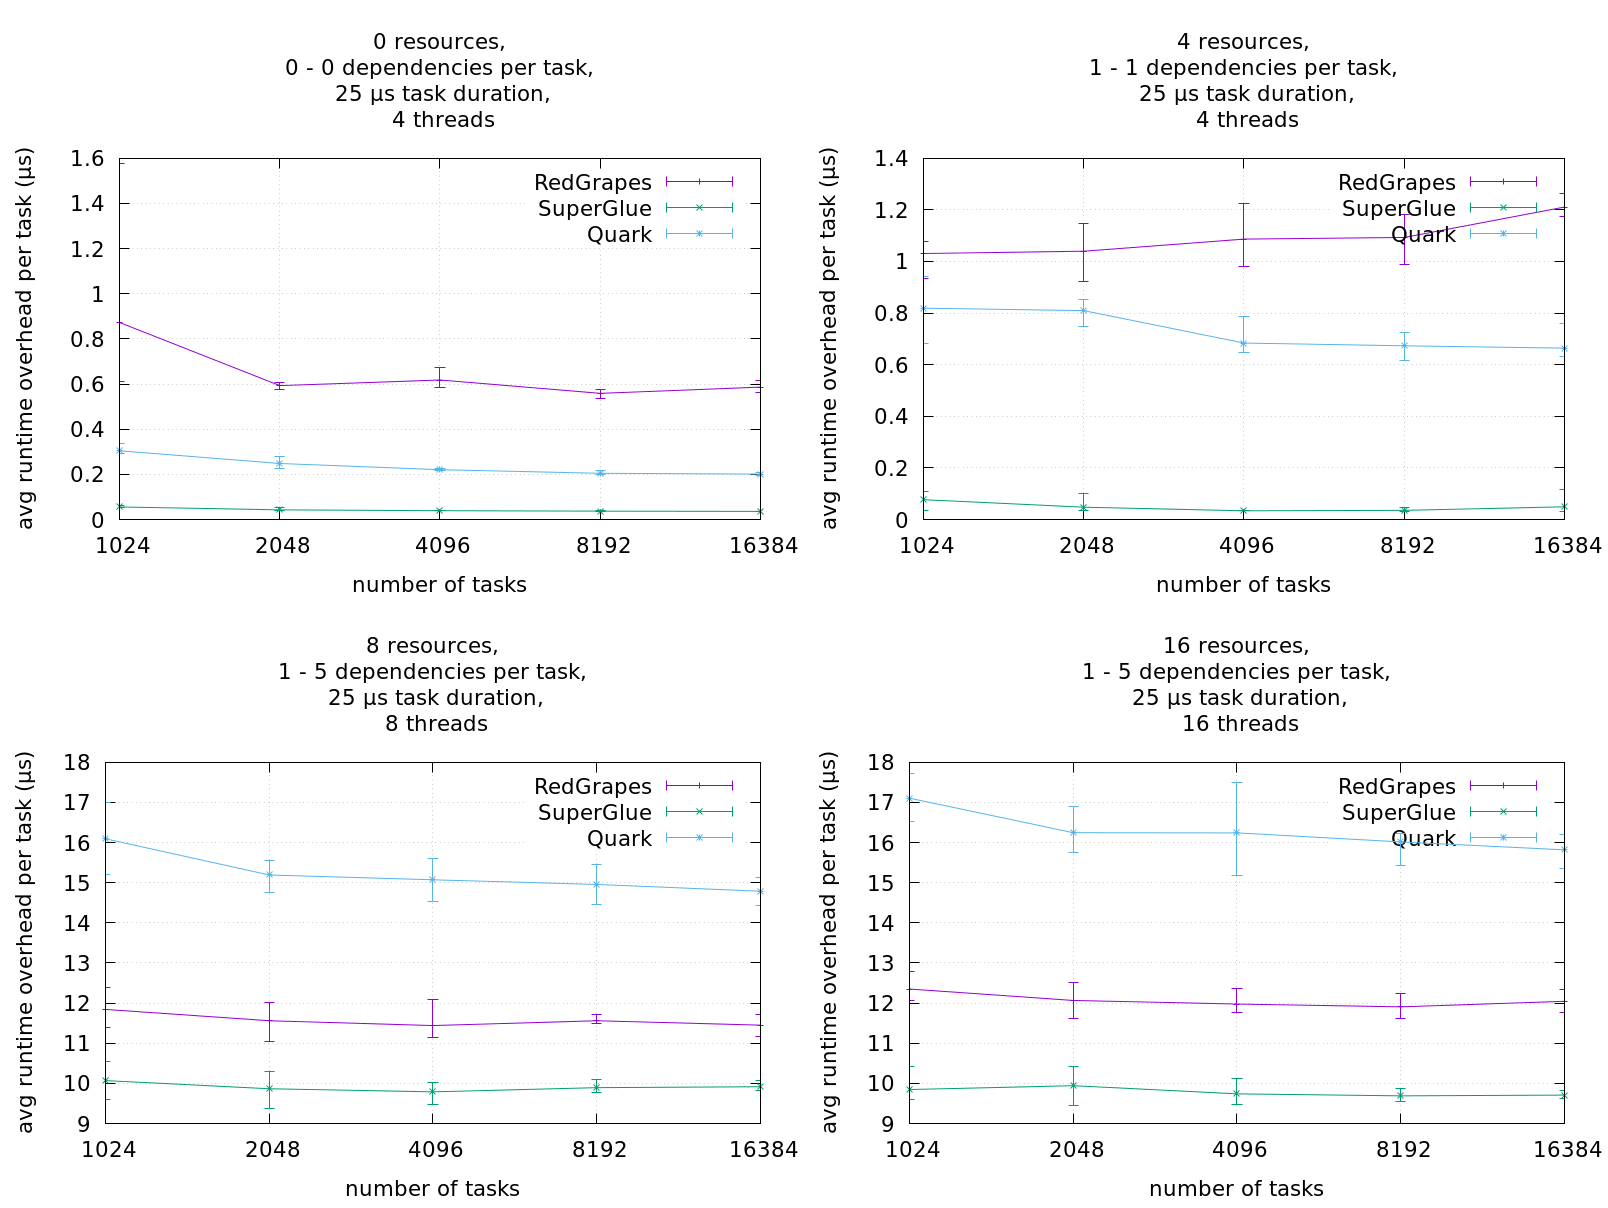
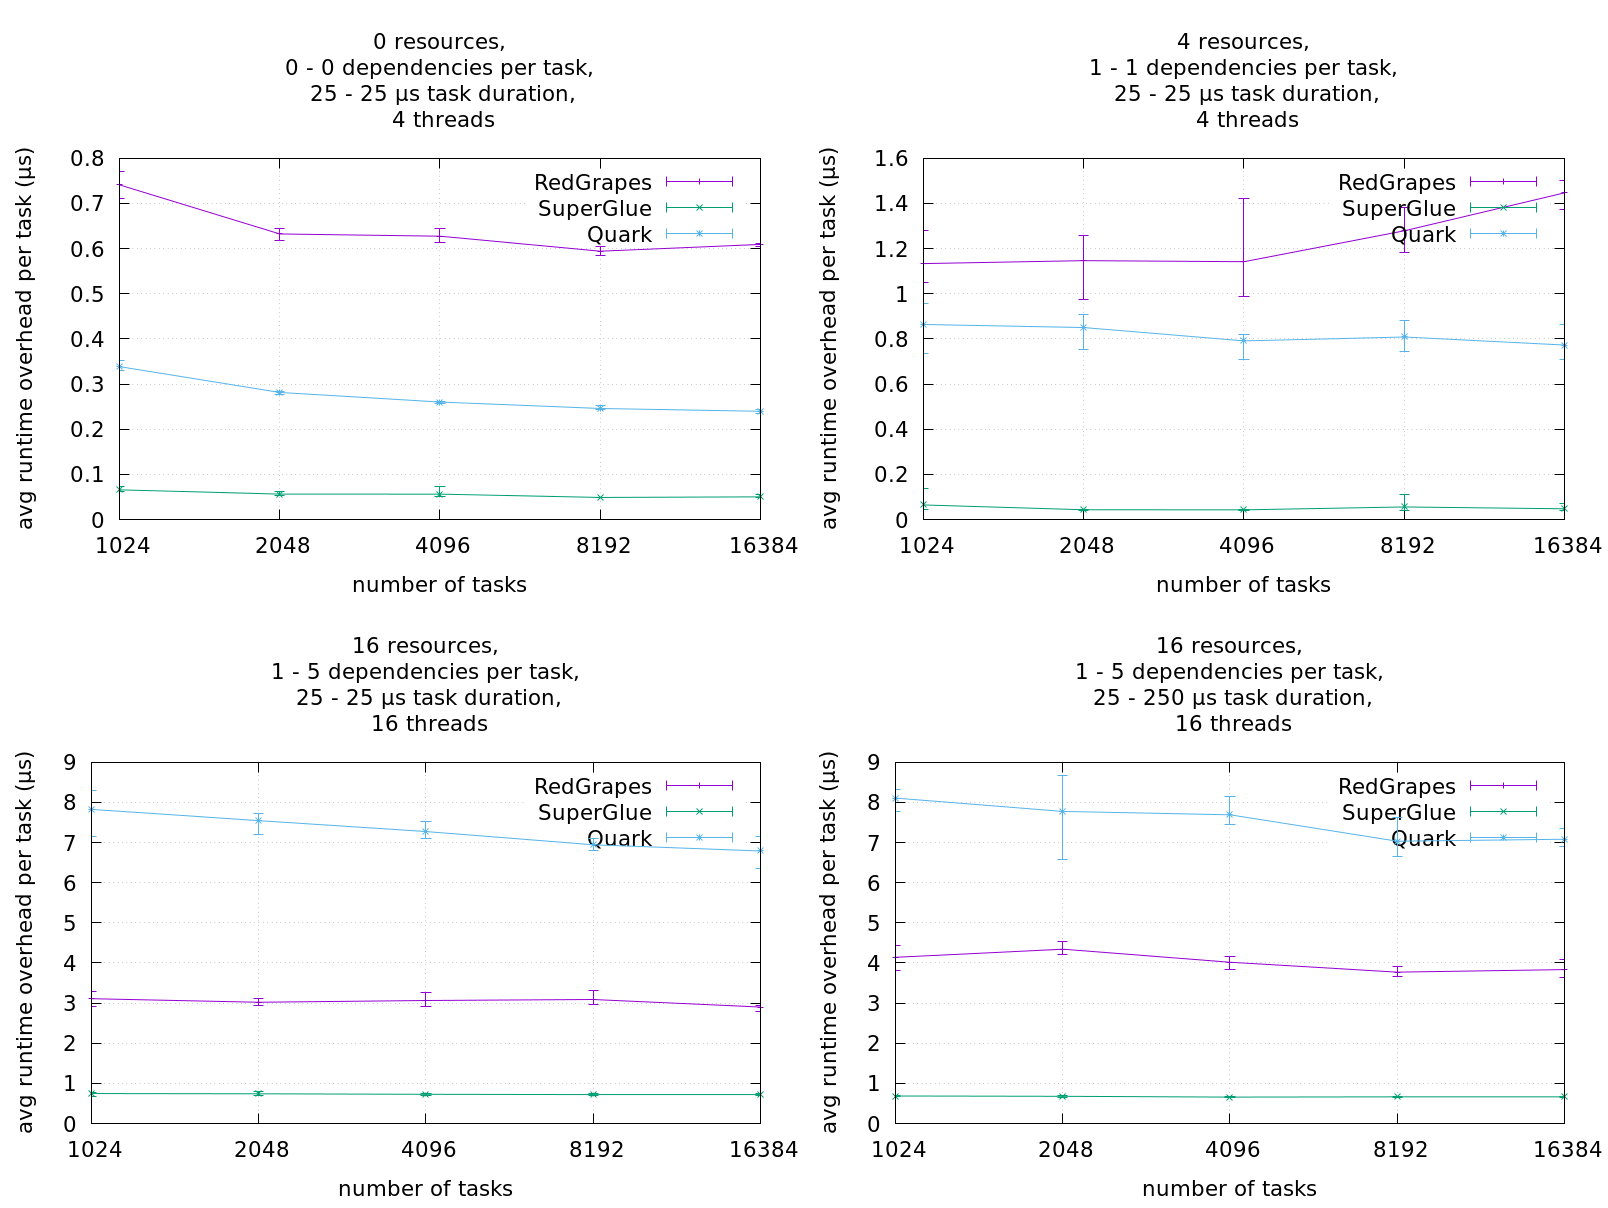
update plots

diff --git a/README.md b/README.md
@@ -30,20 +30,20 @@ In this case, all tasks are independent, i.e. they do not use any resources, so 
 We measure the total execution time and take the difference to the ideal execution time and divide by the number of tasks. This yields the average overhead per task.
 Now multiple workers (4) are used.
 
-![Independent Tasks](bench_res0_dep0_0_dur25_thr4.png)
+![Independent Tasks](bench_res0_dep0_0_dur25_25_thr4.png)
 
 ### Chains
 Here we create tasks with exactly one dependency each. This is done by having as many resources as workers (4 in this case) and randomly choosing a resource for each task.
 
-![Chains](bench_res4_dep1_1_dur25_thr4.png)
+![Chains](bench_res4_dep1_1_dur25_25_thr4.png)
 
 ### Random Graph
 Now, for each task, the number of dependencies it has is randomly distributed, where each task has at least one dependency and at maximum five. Then, for each required dependency a unique resource is chosen which the task uses.
 Since the number of workers and thus the actual amount parallelism is finite, we must be careful not to introduce potential parallelism that exceeds our practical capabilities. Otherwise, the unrealistically short critical paths would create a falsely high ovearhead measure.
 Therefore the number of resources is equal to the number of workers, to limit potential parallelism.
 
-![Random Graph Benchmark](bench_res8_dep1_5_dur25_thr8.png)
-![Random Graph Benchmark](bench_res16_dep1_5_dur25_thr16.png)
+![Random Graph Benchmark](bench_res16_dep1_5_dur25_25_thr16.png)
+![Random Graph Benchmark](bench_res16_dep1_5_dur25_250_thr16.png)
 
 ## Latency
 This Benchmark measures the latency of creating a single task.
